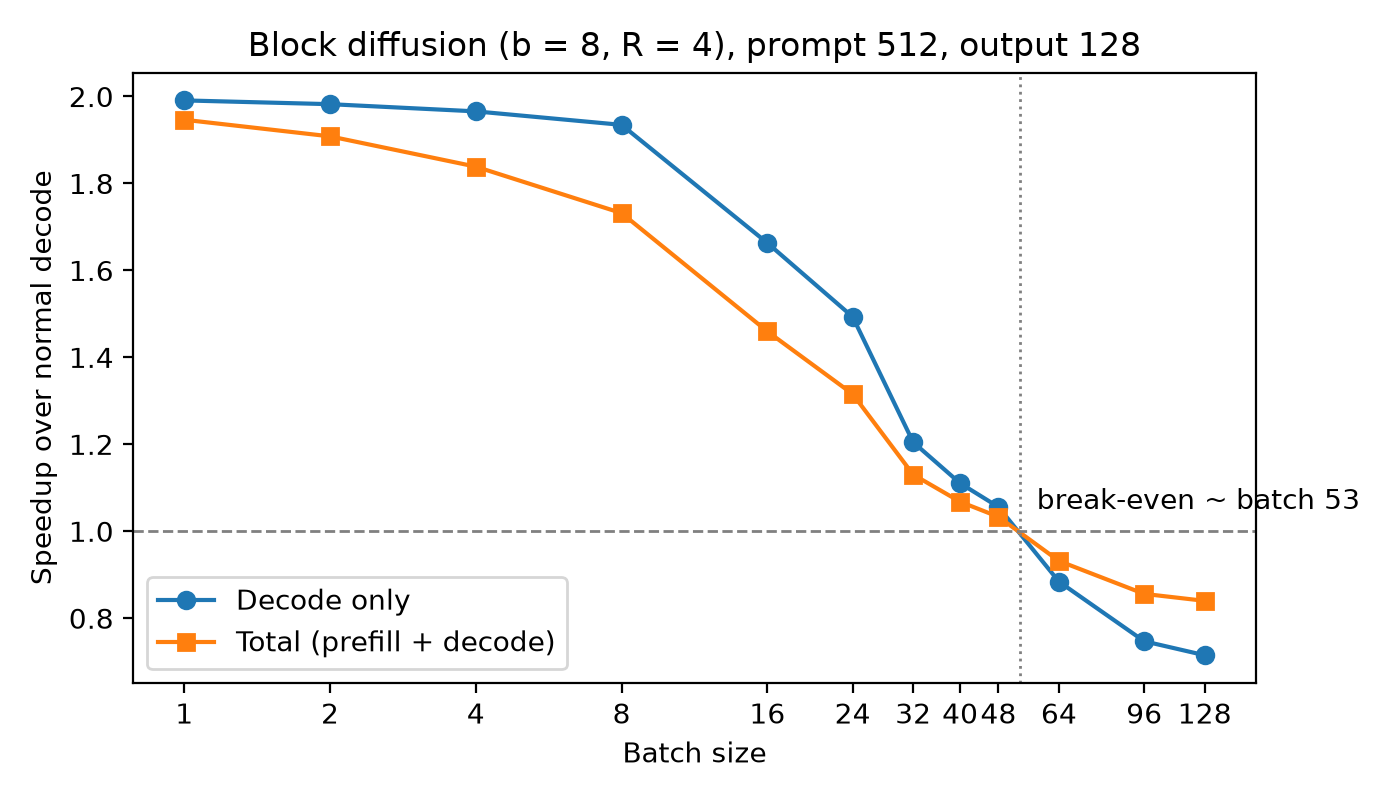
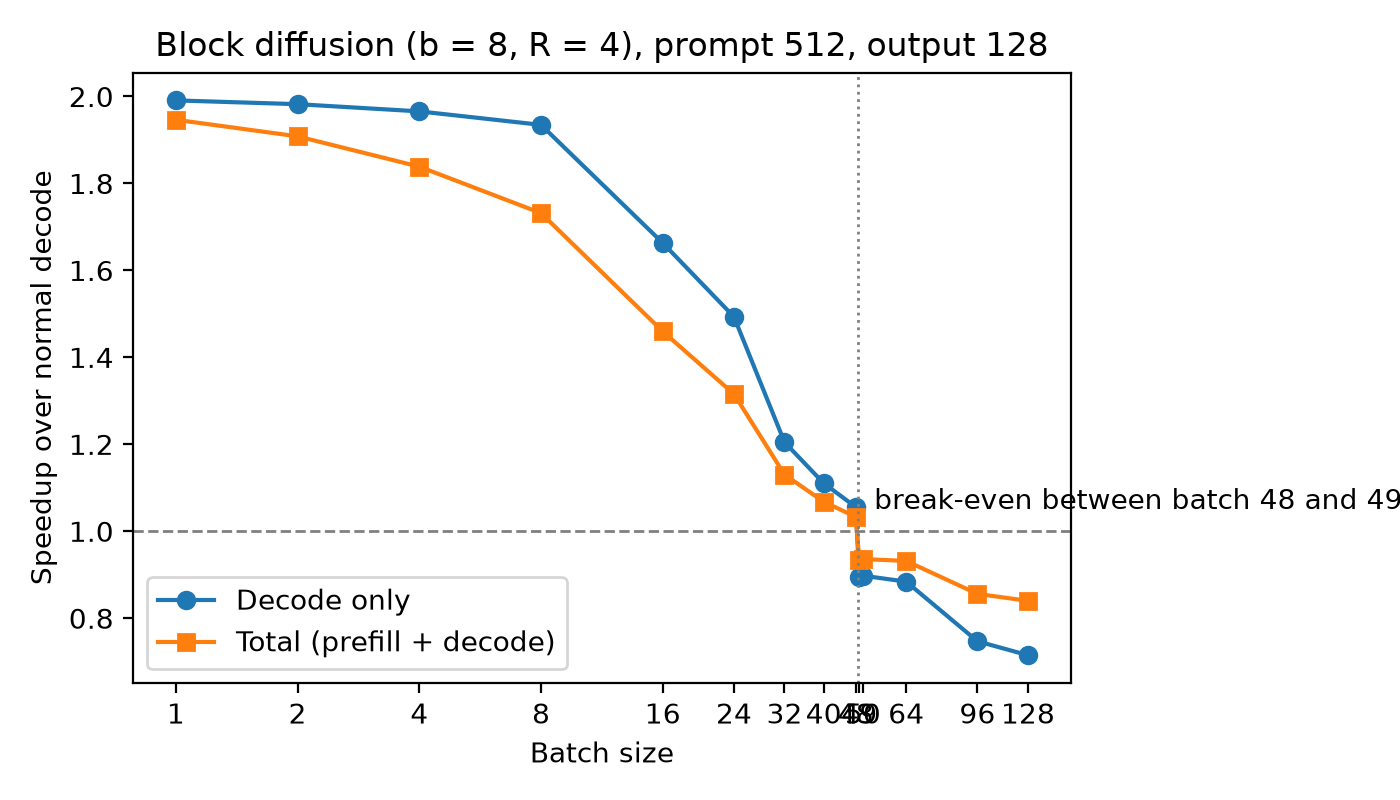
Add batch 49 and 50 to the batch sweep and report the break-even as a bracket
Claude-Session: https://claude.ai/code/session_01Khj2T1snnwP1HLB8vMtuL4

diff --git a/project3/make_report.py b/project3/make_report.py
@@ -93,15 +93,16 @@ def main():
         w = csv.writer(fh)
         w.writerow(["batch", "decode_speedup", "total_speedup"])
         w.writerows((n, f"{d:.4f}", f"{t:.4f}") for n, d, t in sweep)
-    breakeven = None
+    bracket = None      # first pair of swept batch sizes where decode speedup drops below 1
     for (n0, d0, _), (n1, d1, _) in zip(sweep, sweep[1:]):
         if d0 >= 1 > d1:
-            breakeven = n0 + (1 - d0) * (n1 - n0) / (d1 - d0)   # linear interpolation in batch
+            bracket = (n0, n1)
+            break
     rows = [(n, f"{first_call_ms(bd[n]):.1f} ms", f"{first_call_ms(ar[n]):.1f} ms",
-             f"{first_call_ms(bd[n]) / first_call_ms(ar[n]):.1f}x") for n in (1, 16, 32, 64, 128)]
+             f"{first_call_ms(bd[n]) / first_call_ms(ar[n]):.1f}x") for n in (1, 16, 32, 48, 49, 64, 128)]
     lines += ["## Slide 8: where normal decode catches up (prompt 512, output 128)", "",
-              f"Break-even (decode speedup = 1, linear interpolation between the two batch sizes "
-              f"around it): batch {breakeven:.1f}.", "",
+              f"Decode speedup falls from 1.0x or more to below 1.0x between batch {bracket[0]} and "
+              f"batch {bracket[1]} (the drop is a step, not a slope: see the call times below).", "",
               md_table(["Batch", "Diffusion call", "Normal step", "Ratio"], rows), "",
               "Chart data: `slide08_batch_sweep.csv`; chart: `slide08_batch_sweep.png`.", ""]
     try:
@@ -112,9 +113,10 @@ def main():
         ax.plot(batches, [d for _, d, _ in sweep], marker="o", label="Decode only")
         ax.plot(batches, [t for _, _, t in sweep], marker="s", label="Total (prefill + decode)")
         ax.axhline(1.0, color="gray", lw=1, ls="--")
-        if breakeven:
-            ax.axvline(breakeven, color="gray", lw=1, ls=":")
-            ax.annotate(f"break-even ~ batch {breakeven:.0f}", (breakeven, 1.0),
+        if bracket:
+            mid = sum(bracket) / 2
+            ax.axvline(mid, color="gray", lw=1, ls=":")
+            ax.annotate(f"break-even between batch {bracket[0]} and {bracket[1]}", (mid, 1.0),
                         textcoords="offset points", xytext=(6, 8))
         ax.set_xscale("log", base=2)
         ax.set_xticks(batches)

diff --git a/project3/run_cases.py b/project3/run_cases.py
@@ -75,7 +75,7 @@ def study_a_cases():
     return cases
 
 
-STUDY_B_BATCHES = [1, 2, 4, 8, 16, 24, 32, 40, 48, 64, 96, 128]
+STUDY_B_BATCHES = [1, 2, 4, 8, 16, 24, 32, 40, 48, 49, 50, 64, 96, 128]
 
 
 def study_b_cases():

diff --git a/README.md b/README.md
@@ -96,7 +96,7 @@ To run a single suite by hand: `python project3/run_cases.py <suite>`.
 | `baseline_after_change` | Normal (AR) decode, batch 1/16/64, prompt 512, output 128/256: the comparison for the required runs | yes |
 | `diffusion_b8_R4` | Required evaluation: same cases with b = 8, R = 4 | yes |
 | `study_a_b_R` | b = 4/8/16/32, R = 2/4/8 (R < b), batch 1/16/64, prompt 512, output 128 | yes |
-| `study_b_batch` | Batch 1 to 128, AR vs b = 8, R = 4, prompt 512, output 128 | yes |
+| `study_b_batch` | Batch 1 to 128 (including 49 and 50, around the break-even), AR vs b = 8, R = 4, prompt 512, output 128 | yes |
 | `study_c_prompt` | Prompt 2K/8K/32K, batch 1/8/32, AR vs b = 8, R = 4, output 128 | yes (not with `--quick`) |
 | `baseline` | Same cases as `baseline_after_change`, recorded with the unmodified RAPID-LLM code | no (reference only) |
 | `neutral_b1_R1` | Same cases with b = 1, R = 1 | no (side check) |
@@ -136,7 +136,7 @@ Findings:
   decode speedup is close to b/R (e.g. 1.99× for b = 8, R = 4 and 14.5× for b = 32, R = 2 at
   batch 1).
 - Large batch (compute-bound): each token is processed R times, so R dominates the cost. For
-  b = 8, R = 4, AR decoding catches up between batch 48 (1.03× total) and 64 (0.93×).
+  b = 8, R = 4, AR decoding catches up between batch 48 (1.03× total) and batch 49 (0.93×): the cost of a call jumps there instead of growing smoothly.
 - Long prompts: prefill dominates total time, so a 1.85× decode speedup at batch 1 shrinks to
   1.13× end to end at a 32K prompt.
 - Peak memory is set by prefill and is the same as AR in every case; the decode-phase peak

diff --git a/project3/report/REPORT.md b/project3/report/REPORT.md
@@ -28,13 +28,15 @@ Every section names the slide it reproduces. Llama-3.1-8B, one A100 80 GB.
 
 ## Slide 8: where normal decode catches up (prompt 512, output 128)
 
-Break-even (decode speedup = 1, linear interpolation between the two batch sizes around it): batch 53.2.
+Decode speedup falls from 1.0x or more to below 1.0x between batch 48 and batch 49 (the drop is a step, not a slope: see the call times below).
 
 | Batch | Diffusion call | Normal step | Ratio |
 | --- | --- | --- | --- |
 | 1 | 12.2 ms | 12.1 ms | 1.0x |
 | 16 | 16.2 ms | 13.5 ms | 1.2x |
 | 32 | 24.8 ms | 14.9 ms | 1.7x |
+| 48 | 31.1 ms | 16.3 ms | 1.9x |
+| 49 | 36.8 ms | 16.4 ms | 2.2x |
 | 64 | 40.5 ms | 17.8 ms | 2.3x |
 | 128 | 71.9 ms | 25.4 ms | 2.8x |
 
